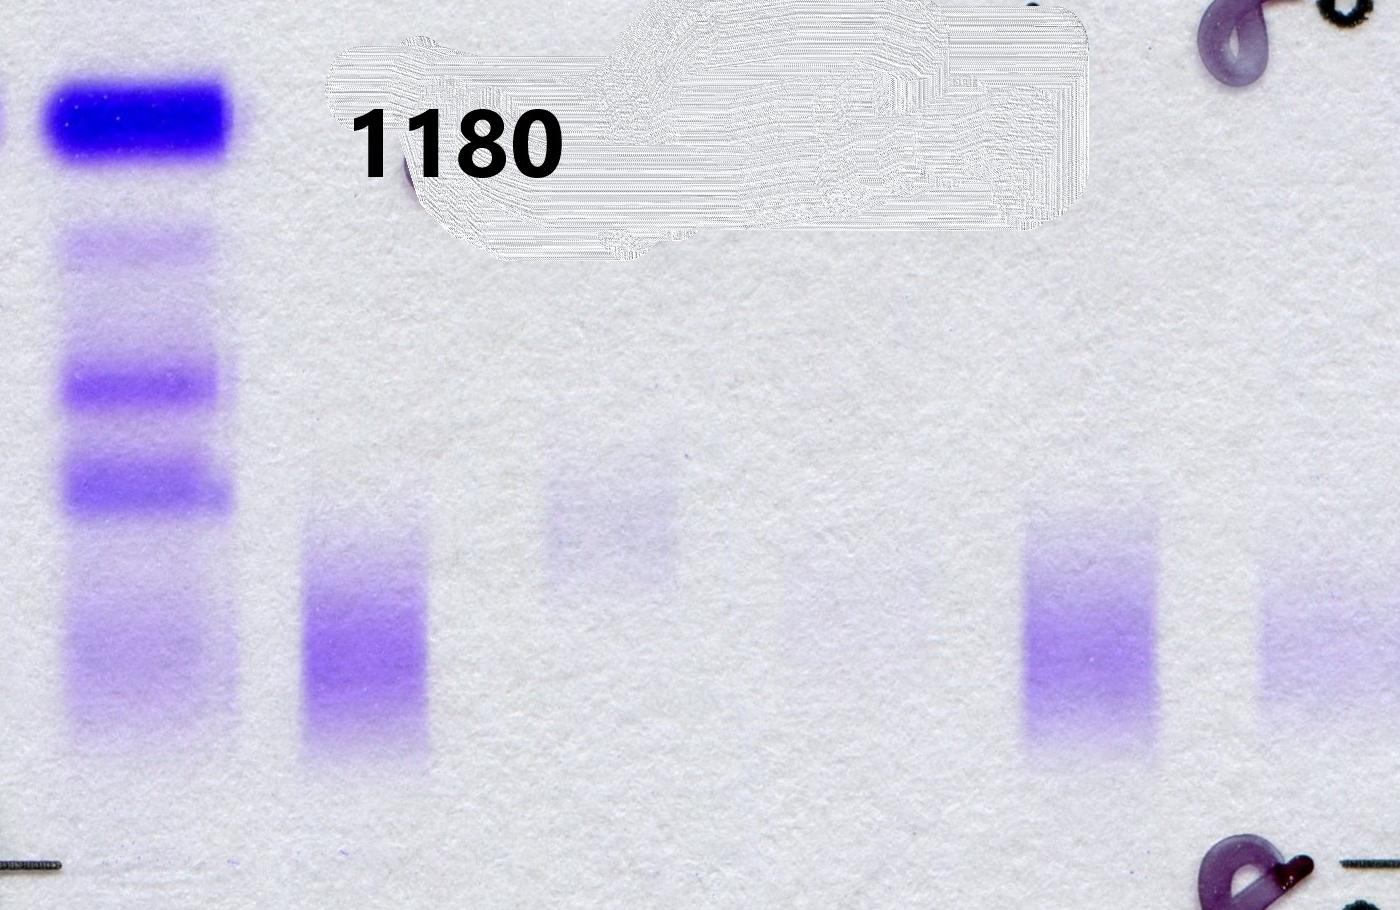
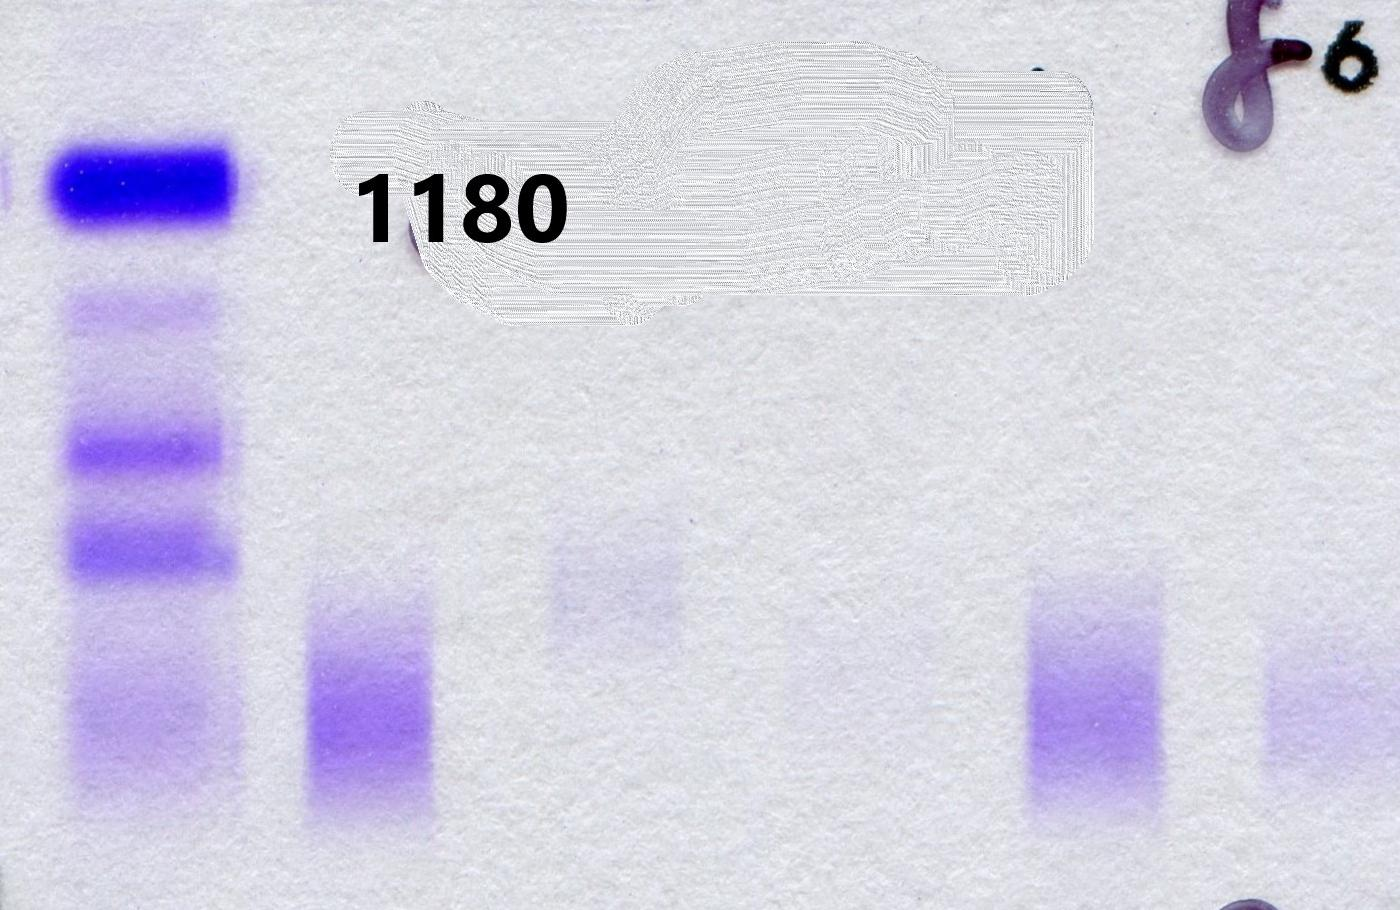
cover img with gray block 11.6

diff --git a/filterpics.py b/filterpics.py
@@ -2,21 +2,25 @@ from PIL import Image, ImageDraw
 import os
 
 
-# copy and paste a white block to the top right corner of each image in the file
+# copy and paste a white block to the top right corner of each image in the file 11.6.20
 def cover_img_w_block():
-    path = 'new_test_pics/'
-    path2 = 'after_change_pics/'
+    path = 'new_test_pics/new_test_pics2/Gel_D1/'
+    path2 = 'after_change_pics/after_change_pics2/Gel_D1/'
     for filename in os.listdir(path):
         image = Image.open(os.path.join(path, filename))
-        white_block = Image.open('large_gray_chunk.png')
+        white_block = Image.open('big_grayblock.jpg')
         image_copy = image.copy()
         position = ((image_copy.width - white_block.width), 0)
         image_copy.paste(white_block, position)
         image_copy.save(os.path.join(path2, filename))
 
 
-# Draw a 290*100 light gray block
+# Draw a 290*100 light gray block 11.6.20
 def draw_gray_block():
-    blank_image = Image.new('RGB', (290, 100), (253, 251, 254))
+    blank_image = Image.new('RGB', (1170, 400), (240, 241, 246))
     img_draw = ImageDraw.Draw(blank_image)
-    blank_image.save('grayblock.jpg')
+    blank_image.save('big_grayblock.jpg')
+
+if __name__ == "__main__":
+    draw_gray_block()
+    cover_img_w_block()

diff --git a/b4pics.py b/b4pics.py
@@ -30,12 +30,13 @@ def check_size():
         image = Image.open(os.path.join(path, filename))
         print(image.size)
 
+# crop the image into the size we need
 def crop_original_img():
     count = 0
-    xi, yi, xf, yf = 180, 650, 1580, 1560
-    #box = (xi, yi, xf, yf) # this is the starting point, and the image moves on by increasing (1410, 550) every time
-    path = 'new_test_pics/new_test_pics2/Gel_D1/'
-    img = Image.open(os.path.join(path, "Gel_D1.jpg"))
+    xi, yi, xf, yf = 235, 685, 1636, 1595
+
+    path = 'new_test_pics/new_test_pics2/'
+    img = Image.open(os.path.join(path, "Gel_C9.jpg"))
     for i in range(3):
         for j in range(3):
             box = (xi, yi, xf, yf) # this is the starting point, and the image moves on by increasing (1410, 550) every time
@@ -44,15 +45,10 @@ def crop_original_img():
             count += 1
             xi += 1430
             xf += 1430
-        xi = 180
-        xf = 1580
+        xi = 235
+        xf = 1635
         yi += 930
         yf += 930
-    """new_img = img.crop(box)
-    new_img.show()
-    box = (160+1410, 550, 1570+1410, 1460)
-    new_img = img.crop(box)
-    new_img.show()"""
 
 
 
